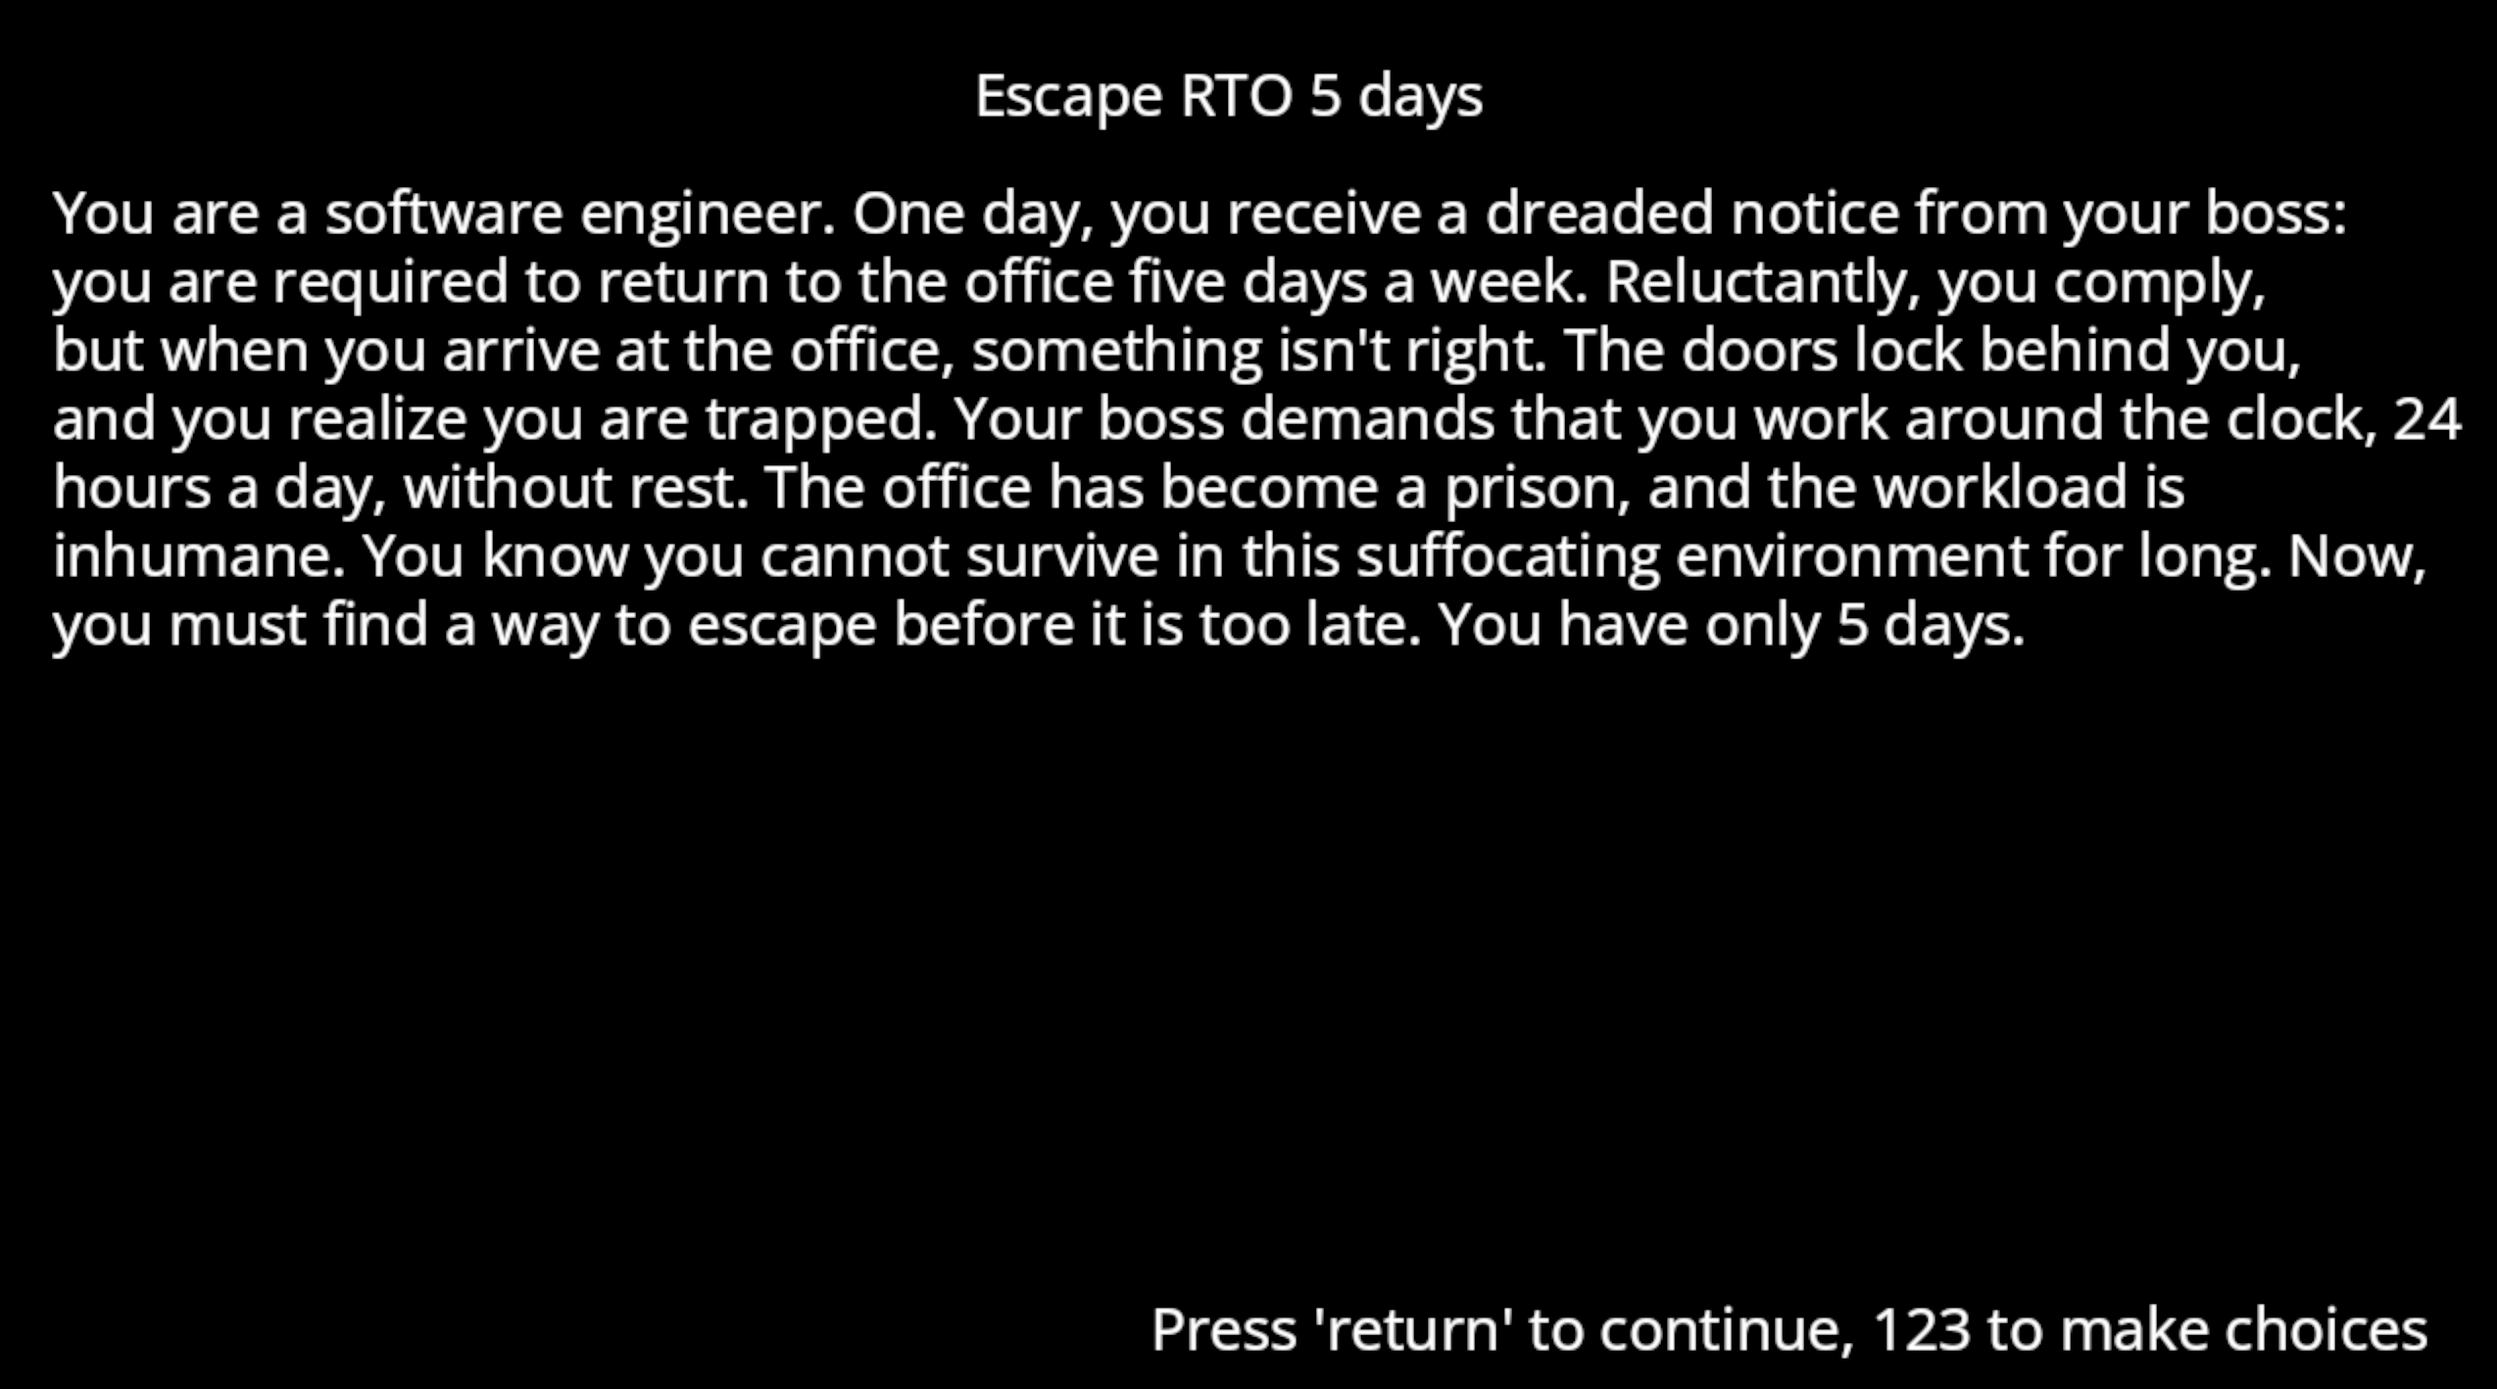
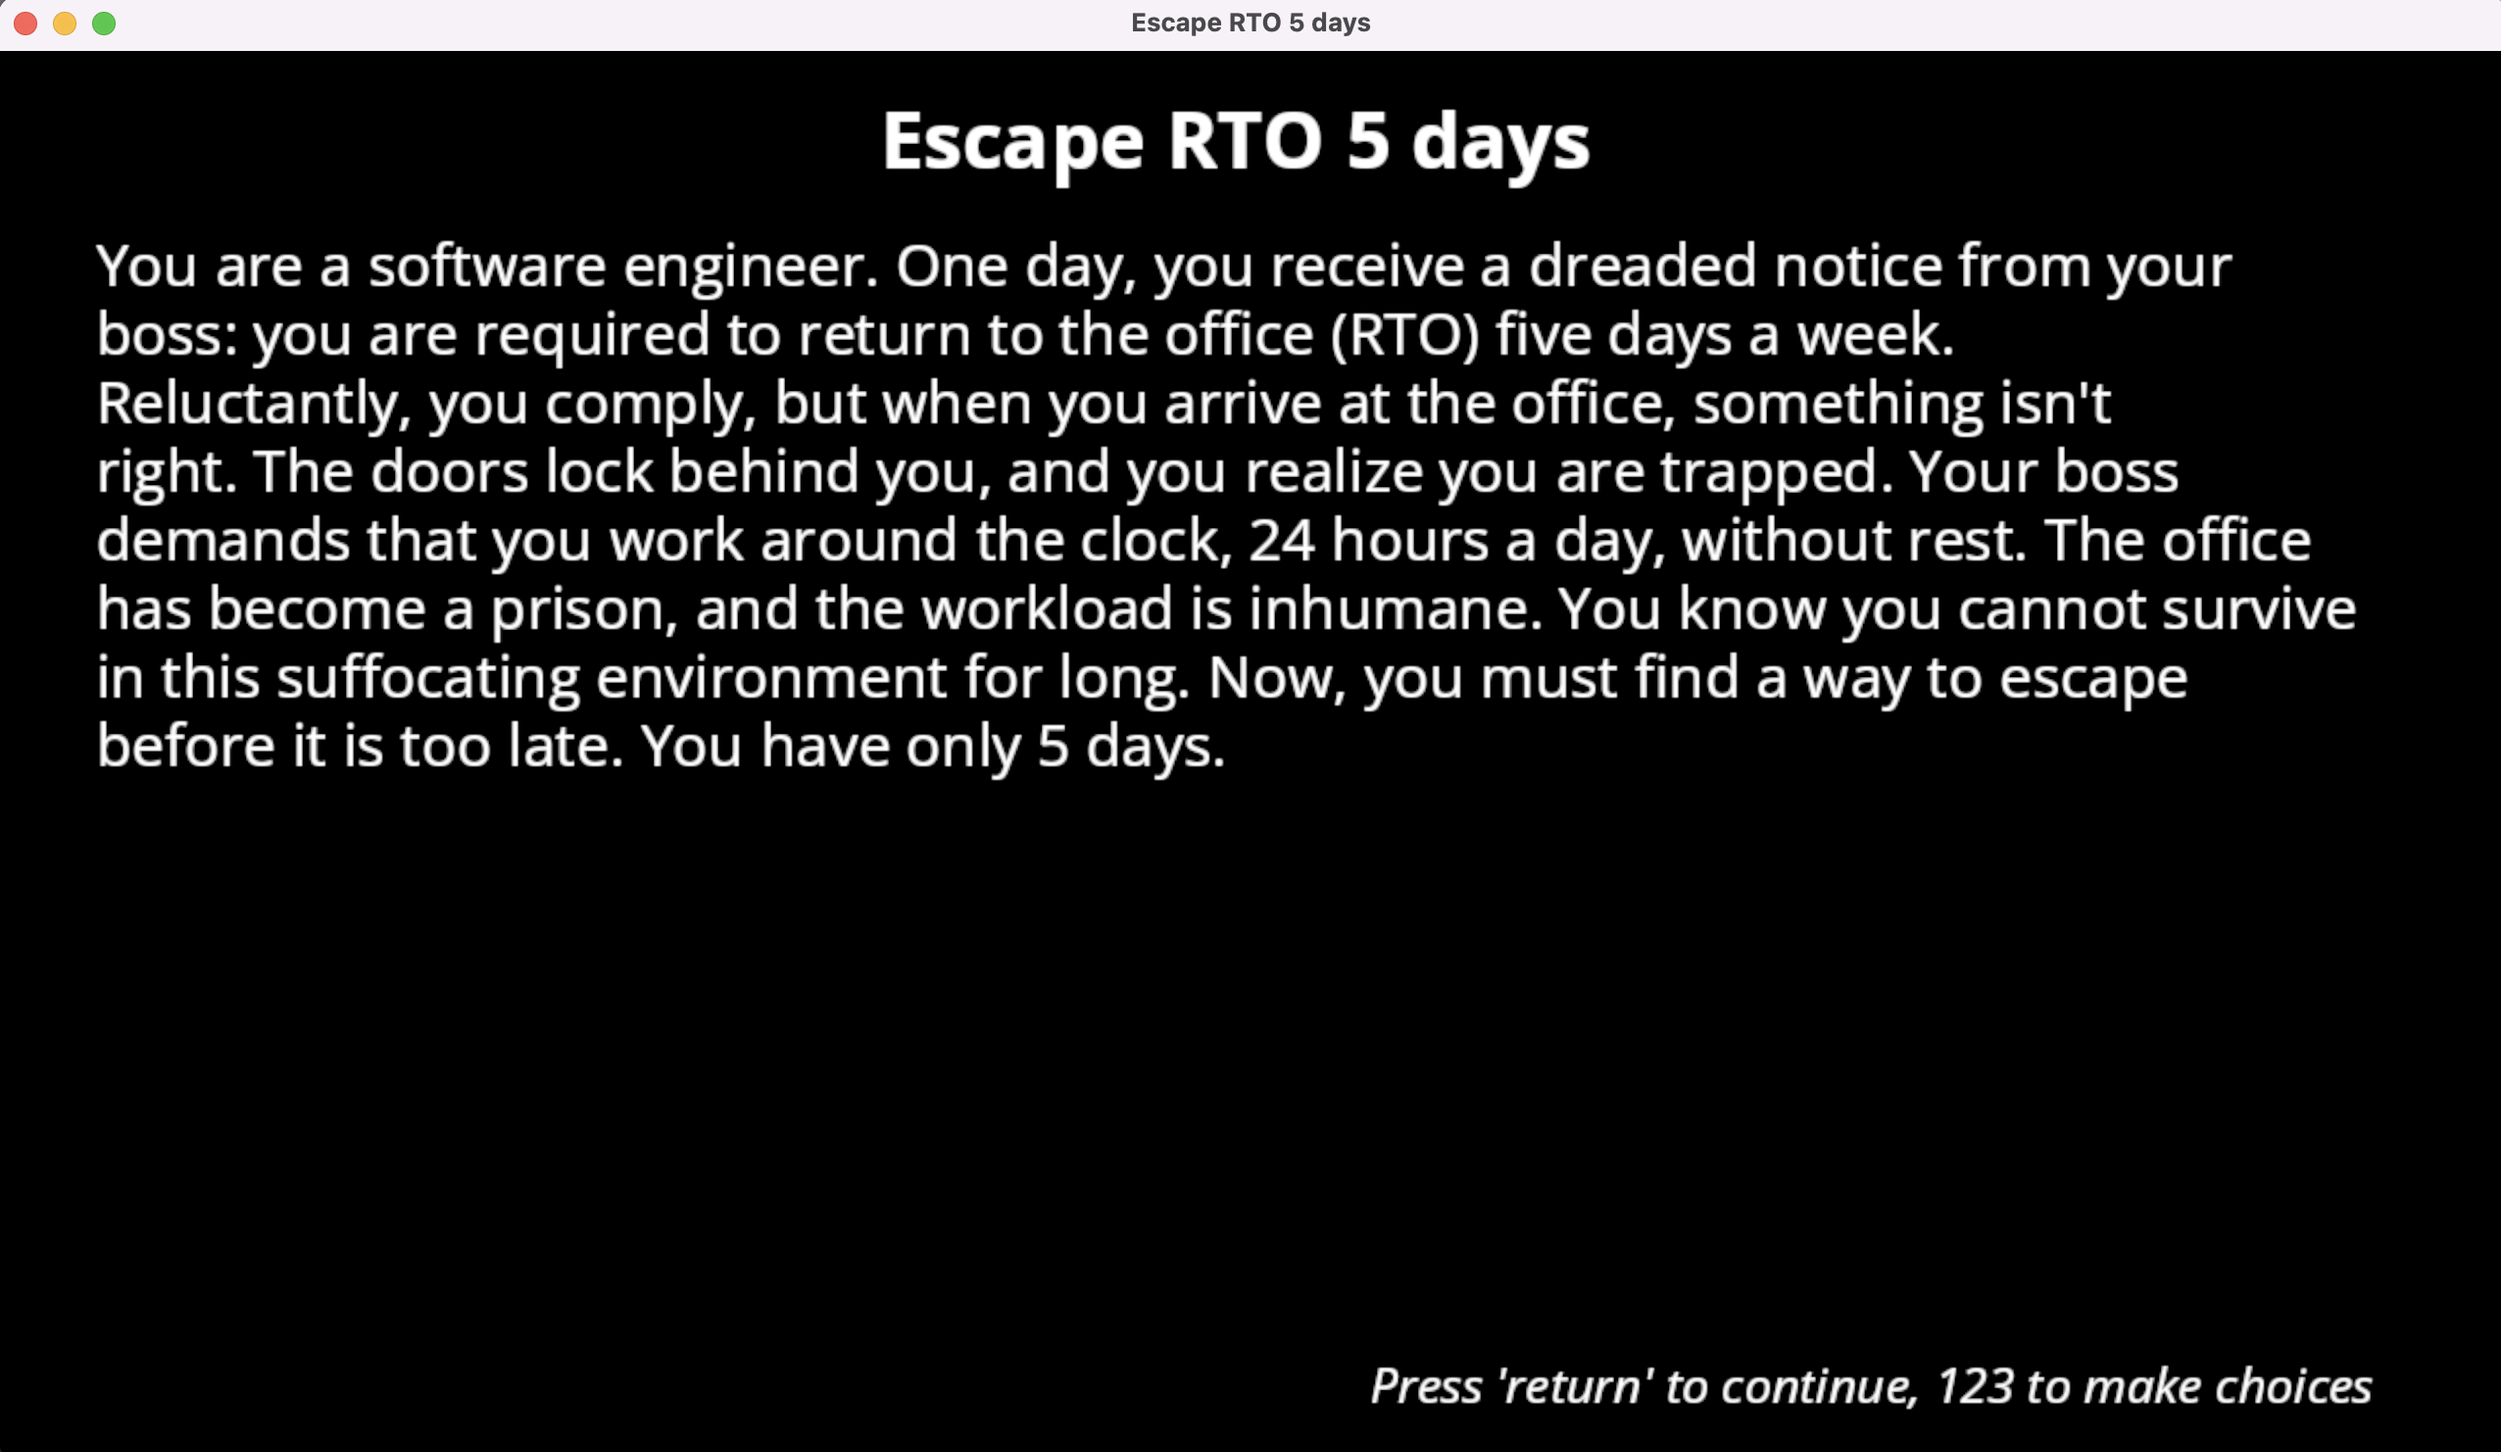
update title and screenshot

Changed region(s): [[0.0, 0.0, 1.0, 0.5275], [0.4651, 0.9309, 0.9922, 0.9929]]

diff --git a/main.cpp b/main.cpp
@@ -66,7 +66,7 @@ int main(int argc, char **argv) {
 
 	//create window:
 	SDL_Window *window = SDL_CreateWindow(
-		"gp23 game4: choice-based game", //TODO: remember to set a title for your game!
+		"Escape RTO 5 days", //TODO: remember to set a title for your game!
 		SDL_WINDOWPOS_UNDEFINED, SDL_WINDOWPOS_UNDEFINED,
 		1280, 720, //TODO: modify window size if you'd like
 		SDL_WINDOW_OPENGL
